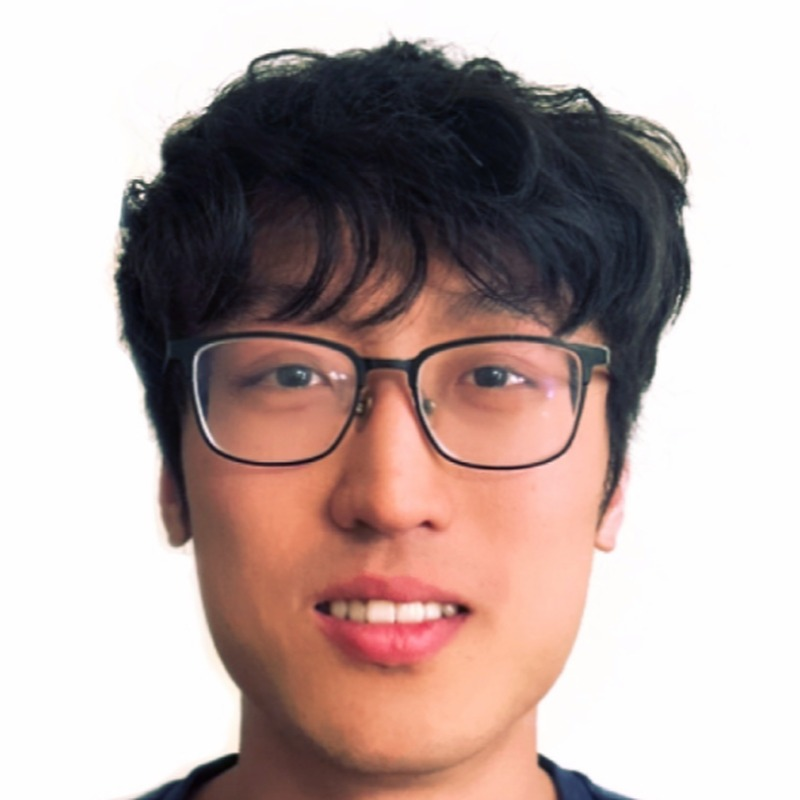
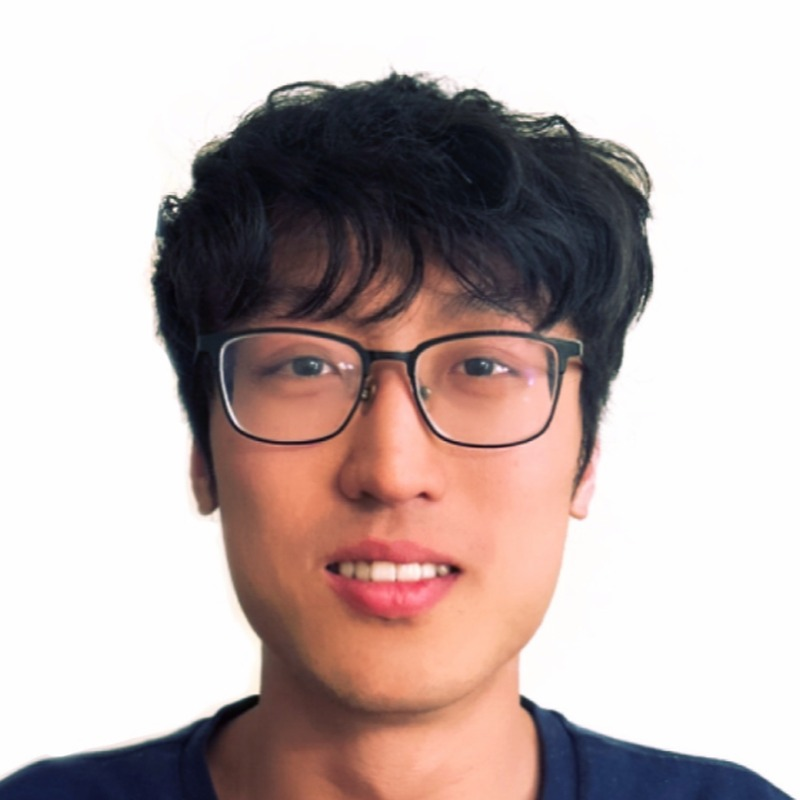
Restore earlier bio wording and the medium photo crop

diff --git a/_pages/about.md b/_pages/about.md
@@ -13,9 +13,9 @@ redirect_from:
 
 I'm a PhD student in [Electrical and Computer Engineering](https://engineering.virginia.edu/departments/electrical-and-computer-engineering) at the [University of Virginia](https://www.virginia.edu/), where I work in the [High-Performance Low-Power Lab (HPLP)](https://engineering.virginia.edu/labs-groups/high-performance-low-power-lab) with [Prof. Mircea R. Stan](https://engineering.virginia.edu/faculty/mircea-r-stan).
 
-My research centers on LLM inference accelerators and hardware–software co-design.
+My research centers on LLM inference accelerators and hardware–software co-design, from the accelerator architecture down to end-to-end deployment on NPUs through custom MLIR-based compiler lowering.
 
-My work spans the full stack: cycle-accurate simulation in C++, RTL design, physical design through signoff and tapeout (GF12), FPGA prototyping, SoC integration, and MLIR-based compiler lowering for end-to-end NPU deployment.
+Hands-on, I work across the stack: RTL design, physical design through signoff and tapeout (GF12), SoC integration, FPGA prototyping, and cycle-accurate simulation in C++.
 
 </div>
 
